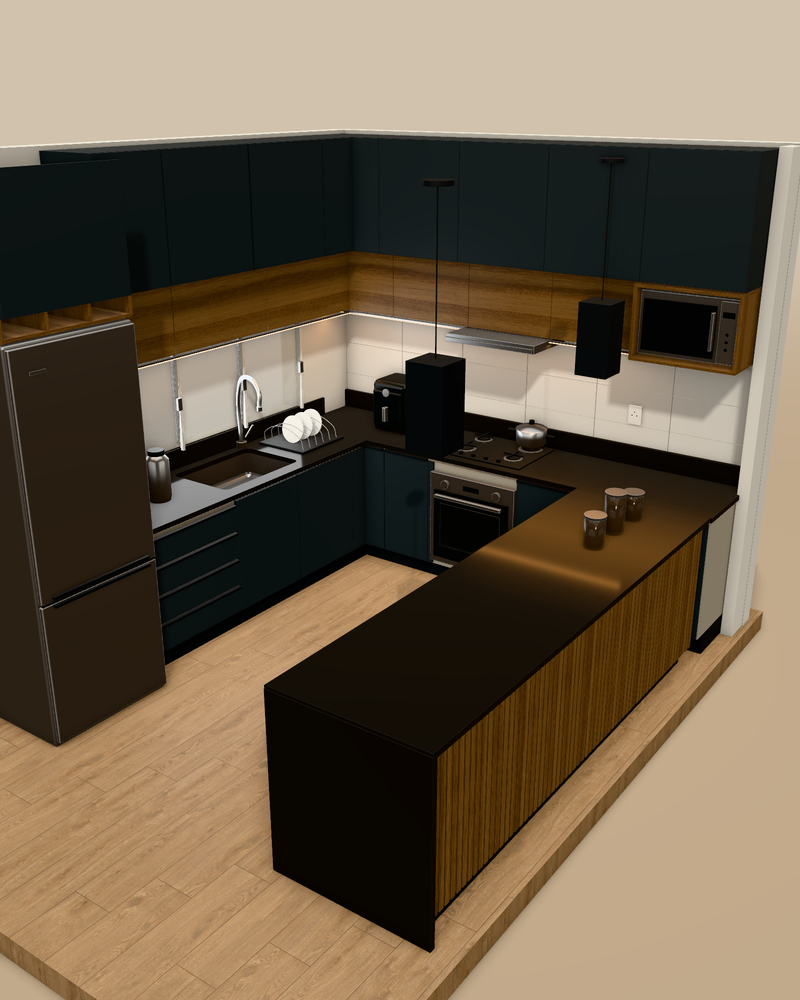
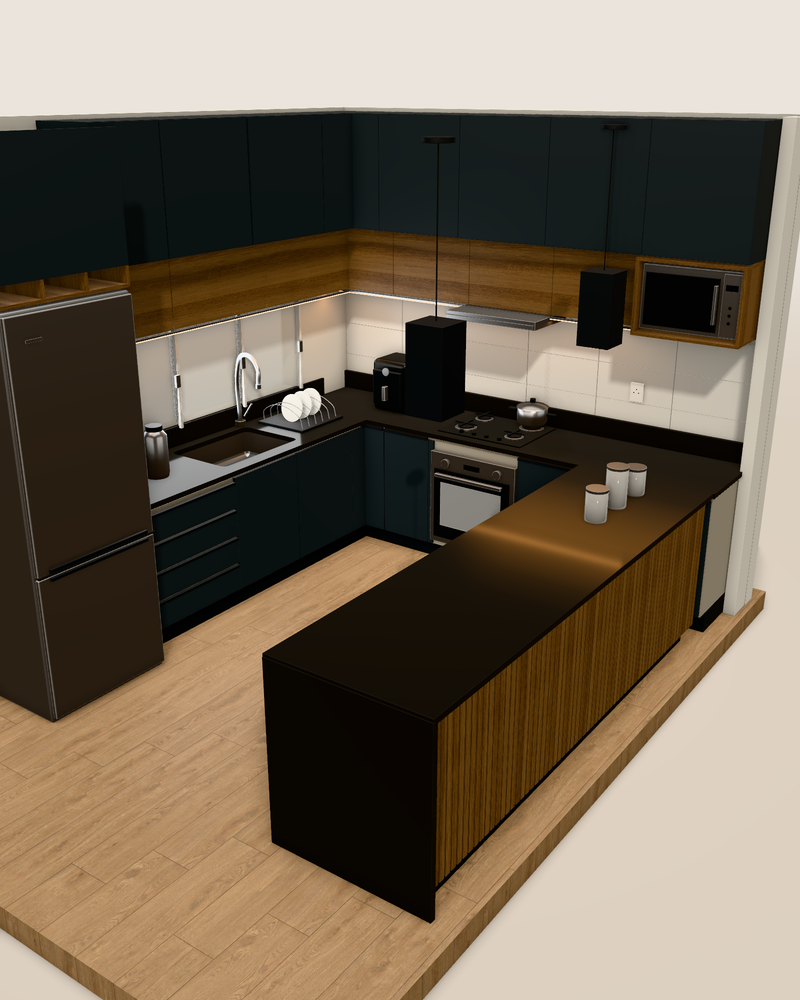
Cozinha 3D: estúdio claro, barra de pontos inferior e render mais leve
- Em movimento renderiza sem oclusão de ambiente; quadro completo ao parar
- Densidade de pixels limitada a 1,5; vidros sem transmissão (passe extra)
- Remove backdrop-filter sobre o canvas
- Layout desktop: pontos numa barra embaixo, ficha flutuante, CTA na barra
- Títulos da página em sans

diff --git a/src/scripts/visualizador/cena.ts b/src/scripts/visualizador/cena.ts
@@ -13,8 +13,8 @@ import { RectAreaLightUniformsLib } from 'three/addons/lights/RectAreaLightUnifo
 export type Qualidade = 'alta' | 'media' | 'baixa';
 
 /** Fundo e piso do estúdio (lineares ao tom da página depois do tonemapping). */
-export const COR_ESTUDIO = 0xd6c8b4;
-const COR_CHAO = 0xa89a87;
+export const COR_ESTUDIO = 0xf1ece5;
+const COR_CHAO = 0xbfbcb8;
 
 export interface HotspotModelo {
   /** Nome do nó no GLB, ex.: HOTSPOT_Bancada */
@@ -175,9 +175,9 @@ export async function montarCena(
         m.opacity = 0.62;
         m.depthWrite = false;
       }
-      // Em aparelhos modestos, a transmissão (um passe extra de render) vira
-      // transparência simples; o vidro continua legível.
-      if (qualidade === 'baixa' && m.transmission > 0) {
+      // A transmissão renderiza a cena inteira de novo a cada quadro. Nos vidros
+      // pequenos deste modelo (forno, potes) a transparência simples basta.
+      if (m.transmission > 0) {
         m.transmission = 0;
         m.transparent = true;
         m.opacity = 0.35;
@@ -252,7 +252,8 @@ function criarAmbienteDeReflexo(): THREE.Scene {
 }
 
 export interface Pipeline {
-  render(): void;
+  /** completo=false: quadro rápido, sem oclusão de ambiente (usado durante o movimento). */
+  render(completo?: boolean): void;
   setSize(largura: number, altura: number): void;
   dispose(): void;
 }
@@ -284,7 +285,9 @@ export function criarPipeline(
   composer.addPass(ao);
   composer.addPass(new OutputPass());
   return {
-    render: () => composer.render(),
+    // Durante o movimento, render direto (com MSAA do próprio canvas) — várias vezes
+    // mais barato. O quadro com oclusão de ambiente é feito quando a câmera para.
+    render: (completo = true) => (completo ? composer.render() : renderer.render(scene, camera)),
     setSize: (w, h) => {
       renderer.setSize(w, h, false);
       composer.setPixelRatio(renderer.getPixelRatio());

diff --git a/src/scripts/visualizador/motor.ts b/src/scripts/visualizador/motor.ts
@@ -58,11 +58,12 @@ const MARGEM = 0.14;
 
 export async function criarMotor(o: OpcoesMotor): Promise<Motor> {
   const renderer = new THREE.WebGLRenderer({
-    antialias: o.qualidade === 'baixa',
+    antialias: true,
     alpha: true,
     powerPreference: 'high-performance',
   });
-  const dprMax = { alta: 2, media: 1.5, baixa: 1 }[o.qualidade];
+  // Acima de 1,5 o custo cresce muito e o ganho visual é pequeno num quadro de 16:9.
+  const dprMax = { alta: 1.5, media: 1.25, baixa: 1 }[o.qualidade];
   let dpr = Math.min(window.devicePixelRatio || 1, dprMax);
   renderer.setPixelRatio(dpr);
   configurarRenderer(renderer, o.qualidade);
@@ -138,7 +139,8 @@ export async function criarMotor(o: OpcoesMotor): Promise<Motor> {
       else continuar = true;
     }
     if (controls.update()) continuar = true;
-    pipeline.render();
+    // Em movimento: quadro rápido. Parado: quadro completo, com oclusão de ambiente.
+    pipeline.render(!continuar);
     atualizarMarcadores(agora, continuar);
     if (continuar) {
       medir(agora);

diff --git a/src/scripts/visualizador/camera.ts b/src/scripts/visualizador/camera.ts
@@ -12,7 +12,7 @@ export interface Orbita {
   dist: number;
 }
 
-const INICIAL: Orbita = { alvo: [0, 0.92, -0.1], az: 0.62, polar: 1.2, dist: 5.7 };
+const INICIAL: Orbita = { alvo: [0, 0.78, -0.1], az: 0.62, polar: 1.2, dist: 5.7 };
 const FOV_PAISAGEM = 40;
 const FOV_RETRATO = 50;
 
@@ -21,7 +21,7 @@ export function vistaInicial(aspecto: number): Orbita & { fov: number } {
   const fov = aspecto < 1 ? FOV_RETRATO : FOV_PAISAGEM;
   // Largura útil que precisa caber no quadro (m). Em retrato aceitamos cortar
   // um pouco das laterais para a cozinha não ficar minúscula.
-  const largura = aspecto < 0.75 ? 1.75 : aspecto < 1 ? 2.2 : 4.0;
+  const largura = aspecto < 0.75 ? 1.75 : aspecto < 1 ? 2.2 : 4.9;
   const hfov = 2 * Math.atan(Math.tan(THREE.MathUtils.degToRad(fov / 2)) * aspecto);
   const dist = Math.max(INICIAL.dist, largura / Math.tan(hfov / 2));
   // Em telas bem altas, o alvo desce um pouco para a cozinha ocupar o meio do quadro.

diff --git a/src/scripts/visualizador/controle.ts b/src/scripts/visualizador/controle.ts
@@ -43,14 +43,13 @@ export function iniciarVisualizador(raiz: HTMLElement) {
   const progresso = $('[data-v3d-progresso]');
   const dica = $('[data-v3d-dica]');
   const painelDetalhe = $('[data-v3d-painel-detalhe]');
-  const painel = $('.v3d__painel');
   const desktop = matchMedia('(min-width: 1024px)');
 
   // Diz ao motor que parte do quadro a interface cobre, para a câmera centralizar
   // a cozinha na área livre e esconder marcadores que cairiam sob painel ou botões.
   function atualizarMargens() {
     if (!motor) return;
-    if (desktop.matches && !imersivo) motor.definirMargens({ direita: painel.offsetWidth + 32, topo: 0, base: 76 });
+    if (desktop.matches && !imersivo) motor.definirMargens({ direita: 0, topo: 72, base: 84 });
     else if (desktop.matches) motor.definirMargens({ direita: 0, topo: 0, base: 76 });
     else motor.definirMargens({ direita: 0, topo: imersivo ? 76 : 0, base: imersivo ? 28 : 0 });
   }

diff --git a/src/styles/global.css b/src/styles/global.css
@@ -195,6 +195,16 @@ button {
   font-size: clamp(1.3rem, 1.15rem + 0.6vw, 1.6rem);
   line-height: 1.2;
 }
+/* Destaque em sans: títulos de seção no estilo da referência (peso forte,
+   tracking negativo no tamanho grande, entrelinha curta). */
+.t-destaque {
+  font-family: var(--f-sans);
+  font-weight: 650;
+  font-size: clamp(1.9rem, 1.3rem + 2.4vw, 3.25rem);
+  line-height: 1.05;
+  letter-spacing: -0.032em;
+  text-wrap: balance;
+}
 .t-display em,
 .t-titulo em,
 .t-sub em {
